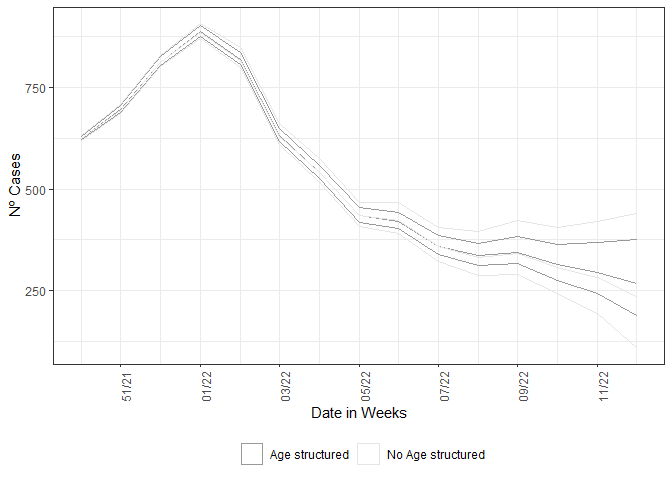
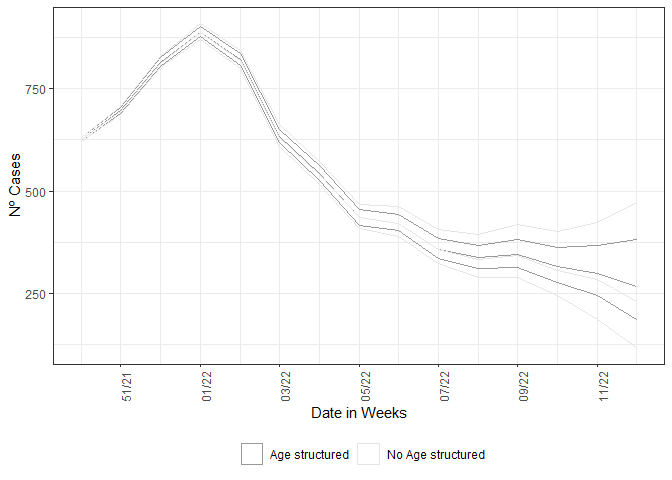
Updating README
Updating README without warings and messagings on chunks

diff --git a/README.md b/README.md
@@ -32,9 +32,6 @@ To install `nowcaster` package simply run the code below in R:
 devtools::install_github("https://github.com/covid19br/nowcaster")
 ```
 
-    ## Skipping install of 'nowcaster' from a github remote, the SHA1 (06224452) has not changed since last install.
-    ##   Use `force = TRUE` to force installation
-
 After installing you can load the by typical library:
 
 ``` r
@@ -98,84 +95,18 @@ as input, here the `LazyData` loaded in the namespace of the package.
 
 ``` r
 nowcasting_bh_no_age<-nowcasting_inla(dataset = data)
-```
-
-    ## Carregando pacotes exigidos: tidyverse
-
-    ## -- Attaching packages --------------------------------------- tidyverse 1.3.1 --
-
-    ## v ggplot2 3.3.5     v purrr   0.3.4
-    ## v tibble  3.1.6     v dplyr   1.0.8
-    ## v tidyr   1.2.0     v stringr 1.4.0
-    ## v readr   2.1.2     v forcats 0.5.1
-
-    ## Warning: package 'dplyr' was built under R version 4.1.3
-
-    ## -- Conflicts ------------------------------------------ tidyverse_conflicts() --
-    ## x dplyr::filter() masks stats::filter()
-    ## x dplyr::lag()    masks stats::lag()
-
-    ## Warning in nowcasting_inla(dataset = data): Using 'SI-PNI' age bins!
-
-    ## Warning in nowcasting_inla(dataset = data): Using default to trim dates,
-    ## trim.data = 0
-
-    ## Warning in nowcasting_inla(dataset = data): Using default to maximum delay, Dmax
-    ## = 15
-
-    ## Warning in nowcasting_inla(dataset = data): Using default to window of action,
-    ## wdw = 30
-
-    ## Warning in nowcasting_inla(dataset = data): Using default to returning option
-    ## for the data, data.by.week = FALSE
-
-    ## Warning in nowcasting_inla(dataset = data): Using default to returning estimate
-    ## by age, return.age = TRUE
-
-    ## Warning in nowcasting_inla(dataset = data): Age_col missing, nowcasting with
-    ## unstructured data
-
-    ## Carregando pacotes exigidos: lubridate
-
-    ## 
-    ## Attaching package: 'lubridate'
-
-    ## The following objects are masked from 'package:base':
-    ## 
-    ##     date, intersect, setdiff, union
-
-    ## Joining, by = "DT_SIN_PRI"
-    ## Joining, by = c("DT_SIN_PRI", "delay", "Time")
-    ## Carregando pacotes exigidos: INLA
-    ## Carregando pacotes exigidos: Matrix
-    ## Attaching package: 'Matrix'
-    ## The following objects are masked from 'package:tidyr':
-    ## 
-    ## expand, pack, unpack
-    ## Carregando pacotes exigidos: foreach
-    ## Attaching package: 'foreach'
-    ## The following objects are masked from 'package:purrr':
-    ## 
-    ## accumulate, when
-    ## Carregando pacotes exigidos: parallel
-    ## Carregando pacotes exigidos: sp
-    ## This is INLA_21.11.22 built 2021-11-21 16:10:15 UTC. - See
-    ## www.r-inla.org/contact-us for how to get help. - Save 80Mb of storage running
-    ## 'inla.prune()'
-
-``` r
 head(nowcasting_bh_no_age$total)
 ```
 
     ## # A tibble: 6 x 7
     ##    Time dt_event   Median    LI    LS   LIb   LSb
     ##   <int> <date>      <dbl> <dbl> <dbl> <dbl> <dbl>
-    ## 1    17 2021-12-13    625  621   632    623   627
-    ## 2    18 2021-12-20    695  687   707    692   698
-    ## 3    19 2021-12-27    812  800   831    808   817
-    ## 4    20 2022-01-03    886  870   910.   880   893
-    ## 5    21 2022-01-10    818  800.  844    810   826
-    ## 6    22 2022-01-17    631  611.  658.   623   640
+    ## 1    17 2021-12-13    625  621   633    623   627
+    ## 2    18 2021-12-20    695  688.  707    692   699
+    ## 3    19 2021-12-27    812  800   830.   807   817
+    ## 4    20 2022-01-03    886  871   907    880   893
+    ## 5    21 2022-01-10    819  799.  844.   811   826
+    ## 6    22 2022-01-17    631  609   660    622   640
 
 This calling will return only the nowcasting estimate and its Confidence
 Interval (CI) for two different Credible interval, `LIb` and `LSb` are
@@ -189,30 +120,6 @@ week.
 
 ``` r
 nowcasting_bh_no_age <- nowcasting_inla(dataset = data, data.by.week = T)
-```
-
-    ## Warning in nowcasting_inla(dataset = data, data.by.week = T): Using 'SI-PNI' age
-    ## bins!
-
-    ## Warning in nowcasting_inla(dataset = data, data.by.week = T): Using default to
-    ## trim dates, trim.data = 0
-
-    ## Warning in nowcasting_inla(dataset = data, data.by.week = T): Using default to
-    ## maximum delay, Dmax = 15
-
-    ## Warning in nowcasting_inla(dataset = data, data.by.week = T): Using default to
-    ## window of action, wdw = 30
-
-    ## Warning in nowcasting_inla(dataset = data, data.by.week = T): Using default to
-    ## returning estimate by age, return.age = TRUE
-
-    ## Warning in nowcasting_inla(dataset = data, data.by.week = T): Age_col missing,
-    ## nowcasting with unstructured data
-
-    ## Joining, by = "DT_SIN_PRI"
-    ## Joining, by = c("DT_SIN_PRI", "delay", "Time")
-
-``` r
 head(nowcasting_bh_no_age$dados)
 ```
 
@@ -290,27 +197,6 @@ nowcasting_bh_age<-nowcasting_inla(dataset = data,
                                    age_col = Idade)
 ```
 
-    ## Warning in nowcasting_inla(dataset = data, bins_age = "10 years", data.by.week =
-    ## T, : Using default to trim dates, trim.data = 0
-
-    ## Warning in nowcasting_inla(dataset = data, bins_age = "10 years", data.by.week =
-    ## T, : Using default to maximum delay, Dmax = 15
-
-    ## Warning in nowcasting_inla(dataset = data, bins_age = "10 years", data.by.week =
-    ## T, : Using default to window of action, wdw = 30
-
-    ## Warning in nowcasting_inla(dataset = data, bins_age = "10 years", data.by.week =
-    ## T, : Using default to returning estimate by age, return.age = TRUE
-
-    ## Warning in dados.w(dataset = dados, bins_age = bins_age, trim.data =
-    ## trim.data, : Using default, trimming out 0 days of data
-
-    ## Warning in dados.w(dataset = dados, bins_age = bins_age, trim.data =
-    ## trim.data, : Bins age in 10 years: 0 10 20 30 40 50 60 70 80 90+
-
-    ## Joining, by = "DT_SIN_PRI"
-    ## Joining, by = c("DT_SIN_PRI", "delay", "fx_etaria", "Time")
-
 Each of the estimates returned by `nowcasting_inla` has the same form as
 in the non-structured case, on the nowcasting estimates it returns a
 data.frame with the Median and its CI by credibility of 50% (LIb and
@@ -351,11 +237,7 @@ nowcasting_bh_age$total$type<-"Age structured"
 
 nowcasting_bh_total<-nowcasting_bh_age$total %>% 
   full_join(nowcasting_bh_no_age$total)
-```
 
-    ## Joining, by = c("Time", "dt_event", "Median", "LI", "LS", "LIb", "LSb", "type")
-
-``` r
 nowcasting_bh_total %>% 
   ggplot(aes(x = dt_event, y = Median, col = type))+
   geom_line(show.legend = F)+
